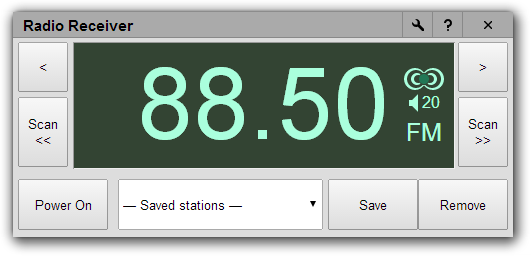
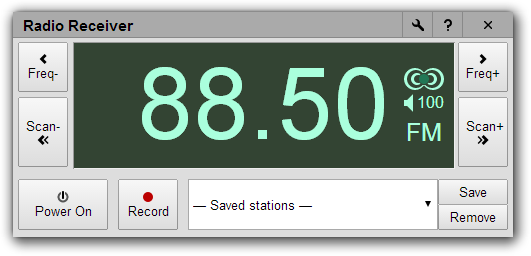
Update help for new interface.

diff --git a/extension/help.html b/extension/help.html
@@ -19,6 +19,11 @@ limitations under the License.
 <script src="auxwindows.js"></script>
 <style>
 body {
+  position: absolute;
+  left: 0;
+  right: 0;
+  top: 0;
+  bottom: 0;
   overflow-y: scroll;
 }
 </style>
@@ -26,7 +31,7 @@ body {
 <body>
 <h1>Using Radio Receiver</h1>
 
-<p style="text-align:center"><img src="help-iface.png" width="624" height="376" title="Radio Receiver main interface"></p>
+<p style="text-align:center"><img src="help-iface.png" width="615" height="350" title="Radio Receiver main interface"></p>
 
 <h2>Start and stop</h2>
 <p>Press the "Power On" button (<b>1</b>) to start playing the radio. You'll see that the label changes to "Power Off"; if you press it again, the radio will stop.</p>
@@ -35,8 +40,8 @@ body {
 <p>You can change frequency in several ways:</p>
 <ul>
 <li>Click on the frequency display (<b>2</b>), type your new frequency directly, and press Enter.</li>
-<li>Use the "&lt;" and "&gt;" buttons (<b>3</b>) to change the frequency 1 step up or down.</li>
-<li>Use the "Scan &lt;&lt;" and "Scan &gt;&gt;" buttons (<b>4</b>) to search for a station automatically.</li>
+<li>Use the "Freq-" and "Freq+" buttons (<b>3</b>) to change the frequency 1 step up or down.</li>
+<li>Use the "Scan-" and "Scan+" buttons (<b>4</b>) to search for a station automatically.</li>
 <li>Use the mouse wheel on the frequency display.</li>
 </ul>
 <p>To change the band you are listening to, click on the band indicator (<b>5</b>). Note that, before you can listen to AM radio, you'll need to <a href="#settings">set up an upconverter in the settings window</a>.</p>
@@ -51,9 +56,12 @@ body {
 <p>To change the volume, click on the "loudspeaker" icon (<b>9</b>) and move the slider left and right to decrease or increase the volume. You can also use your mouse wheel on the icon to change volume directly.</p>
 <p>To disable stereo click on the stereo indicator (<b>10</b>).</p>
 
+<h2>Recording from the radio</h2>
+<p>You can record what you hear on the radio into a WAV file. Just click the "Record" button (<b>11</b>) to start, and type a name for the file. You'll see that the button's label changes to "Stop"; if you press it again, the radio will stop recording.</p>
+
 <a name="settings"></a>
 <h2>Settings</h2>
-<p>You can change a lot of settings by clicking on the "wrench" icon (<b>11</b>). There you can change several settings:</p>
+<p>You can change a lot of settings by clicking on the "wrench" icon (<b>12</b>). There you can change several settings:</p>
 
 <p style="text-align:center"><img src="help-settings.png" width="381" height="291" title="Radio Receiver settings window"></p>
 

diff --git a/extension/auxwindows.js b/extension/auxwindows.js
@@ -122,6 +122,13 @@ var AuxWindows = (function() {
   }
 
   /**
+   * Maximizes the current window.
+   */
+  function maximizeCurrent() {
+    chrome.app.window.current().maximize();
+  }
+
+  /**
    * Closes the current window.
    */
   function closeCurrent() {
@@ -149,6 +156,7 @@ var AuxWindows = (function() {
     error: error,
     help: help,
     resizeCurrentTo: resizeCurrentTo,
+    maximizeCurrent: maximizeCurrent,
     closeCurrent: closeCurrent,
     closeAll: closeAll
   };

diff --git a/extension/help.js b/extension/help.js
@@ -18,4 +18,7 @@ function exit() {
 
 exitButton.addEventListener('click', exit);
 
-AuxWindows.resizeCurrentTo(700, Math.min(800, document.body.offsetHeight + 40));
+AuxWindows.maximizeCurrent();
+exitButton.focus();
+document.body.firstElementChild.scrollIntoView();
+
